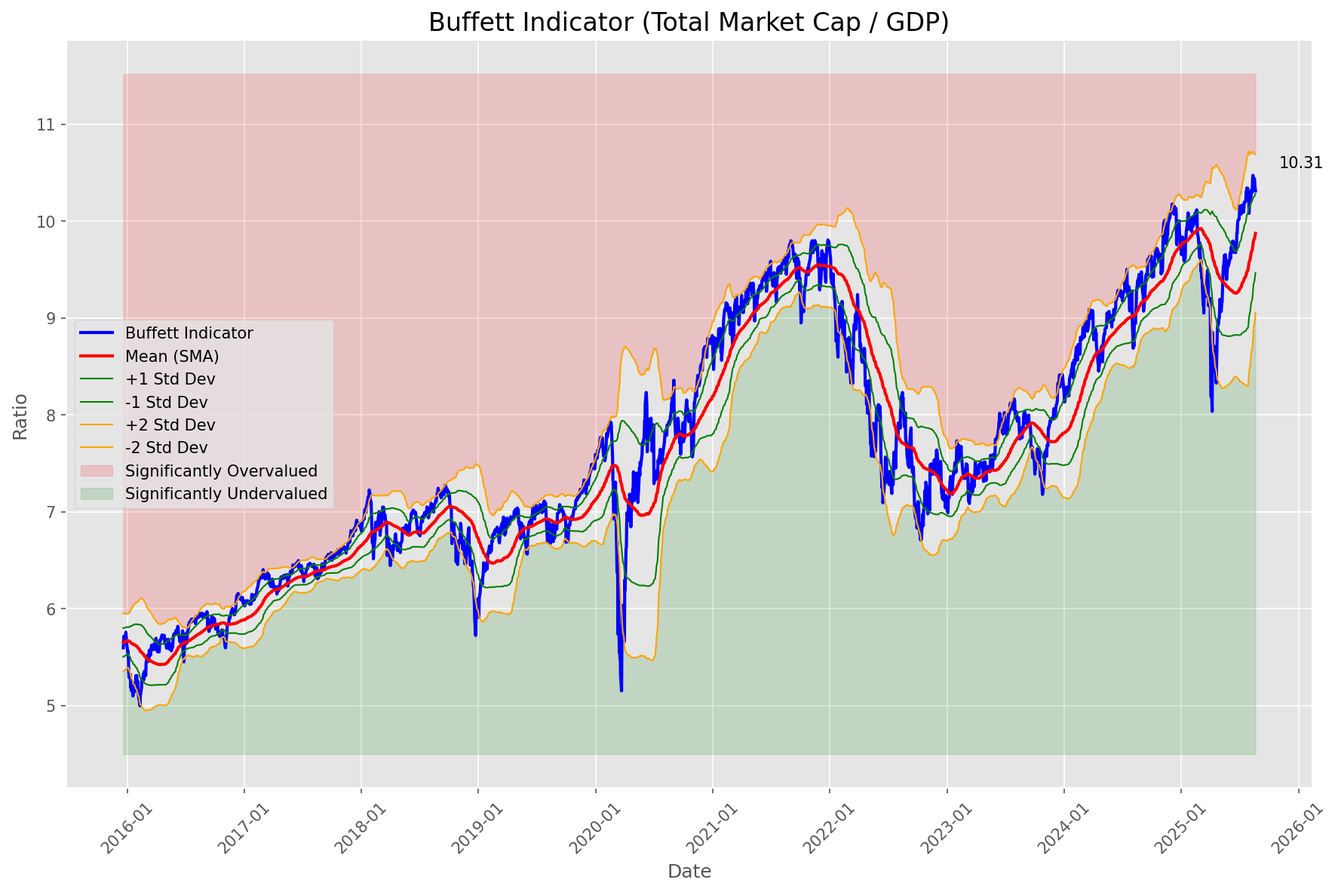
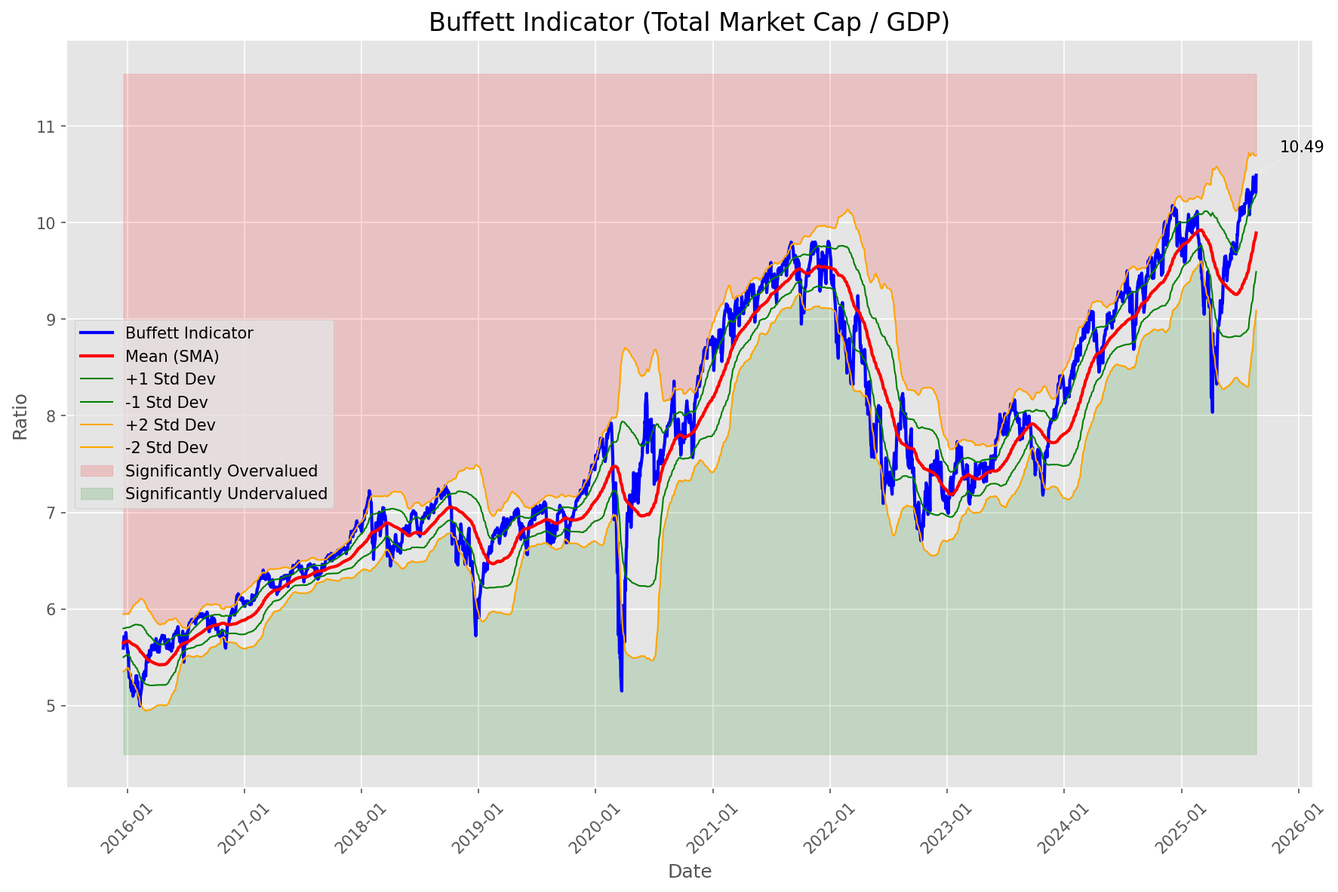
Add market report for 2025-08-25

diff --git a/oneil_relative_strength_report_2025-08-25.md b/oneil_relative_strength_report_2025-08-25.md
@@ -9,11 +9,11 @@
 | Metric | Value |
 |--------|-------|
 | **Market Valuation** | **Overvalued** |
-| **Current Ratio** | 10.49 |
-| **Historical Mean** | 9.87 |
-| **Standard Deviation** | 0.41 |
-| **Z-Score (StdDev from Mean)** | 1.07 |
-| **Total Market Cap** | $318.18 trillion |
+| **Current Ratio** | 10.47 |
+| **Historical Mean** | 9.89 |
+| **Standard Deviation** | 0.40 |
+| **Z-Score (StdDev from Mean)** | 1.49 |
+| **Total Market Cap** | $317.55 trillion |
 | **GDP** | $30.33 trillion |
 
 ## **Market Insights**
@@ -49,41 +49,41 @@ Based on William O'Neil's Relative Strength Methodology
 
 | ETF | Strength | RS Rating | Performance | Above Key MAs | Trend | Sector |
 |-----|----------|-----------|-------------|--------------|-------|--------|
-| [URA](https://www.tradingview.com/chart/?symbol=URA) | 97.0 | 94.0 | 38.29% | 10d ✓, 50d ✓, 200d ✓ | ↗ | Uranium |
-| [ARKK](https://www.tradingview.com/chart/?symbol=ARKK) | 96.5 | 93.0 | 35.72% | 10d ✓, 50d ✓, 200d ✓ | ↗ | Innovation |
-| [ARKF](https://www.tradingview.com/chart/?symbol=ARKF) | 95.5 | 91.0 | 32.87% | 10d ✓, 50d ✓, 200d ✓ | ↗ | Fintech Innovation |
+| [ARKK](https://www.tradingview.com/chart/?symbol=ARKK) | 96.5 | 93.0 | 36.13% | 10d ✓, 50d ✓, 200d ✓ | ↗ | Innovation |
+| [ARKF](https://www.tradingview.com/chart/?symbol=ARKF) | 95.5 | 91.0 | 33.37% | 10d ✓, 50d ✓, 200d ✓ | ↗ | Fintech Innovation |
 | [ARKW](https://www.tradingview.com/chart/?symbol=ARKW) | 95.0 | 90.0 | 31.90% | 10d ✓, 50d ✓, 200d ✓ | ↗ | Next Generation Internet |
-| [SOXX](https://www.tradingview.com/chart/?symbol=SOXX) | 90.0 | 80.0 | 21.06% | 10d ✓, 50d ✓, 200d ✓ | ↗ | Semiconductors |
-| [JETS](https://www.tradingview.com/chart/?symbol=JETS) | 88.0 | 76.0 | 18.64% | 10d ✓, 50d ✓, 200d ✓ | ↗ | Airlines |
-| [SLV](https://www.tradingview.com/chart/?symbol=SLV) | 87.5 | 75.0 | 17.68% | 10d ✓, 50d ✓, 200d ✓ | ↗ | Silver |
+| [URA](https://www.tradingview.com/chart/?symbol=URA) | 92.0 | 84.0 | 24.29% | 10d ✓, 50d ✓, 200d ✓ | ↗ | Uranium |
+| [SOXX](https://www.tradingview.com/chart/?symbol=SOXX) | 91.0 | 82.0 | 22.85% | 10d ✓, 50d ✓, 200d ✓ | ↗ | Semiconductors |
+| [JETS](https://www.tradingview.com/chart/?symbol=JETS) | 88.0 | 76.0 | 18.34% | 10d ✓, 50d ✓, 200d ✓ | ↗ | Airlines |
 | [BLOK](https://www.tradingview.com/chart/?symbol=BLOK) | 87.0 | 74.0 | 17.28% | 10d ✓, 50d ✓, 200d ✓ | ↗ | Blockchain & Cryptocurrency |
-| [PAVE](https://www.tradingview.com/chart/?symbol=PAVE) | 84.0 | 68.0 | 13.87% | 10d ✓, 50d ✓, 200d ✓ | ↗ | Infrastructure |
-| [KWEB](https://www.tradingview.com/chart/?symbol=KWEB) | 84.0 | 68.0 | 13.85% | 10d ✓, 50d ✓, 200d ✓ | ↗ | Chinese Internet |
-| [AIQ](https://www.tradingview.com/chart/?symbol=AIQ) | 81.0 | 62.0 | 11.51% | 10d ✓, 50d ✓, 200d ✓ | ↗ | Artificial Intelligence & Technology |
-| [XLC](https://www.tradingview.com/chart/?symbol=XLC) | 79.0 | 58.0 | 10.59% | 10d ✓, 50d ✓, 200d ✓ | ↗ | Communications |
-| [IYZ](https://www.tradingview.com/chart/?symbol=IYZ) | 78.5 | 57.0 | 10.16% | 10d ✓, 50d ✓, 200d ✓ | ↗ | Telecommunications |
-| [XLY](https://www.tradingview.com/chart/?symbol=XLY) | 78.0 | 56.0 | 9.66% | 10d ✓, 50d ✓, 200d ✓ | ↗ | Consumer Discretionary |
-| [XLI](https://www.tradingview.com/chart/?symbol=XLI) | 75.5 | 51.0 | 8.39% | 10d ✓, 50d ✓, 200d ✓ | ↗ | Industrial |
-| [XLK](https://www.tradingview.com/chart/?symbol=XLK) | 74.6 | 69.0 | 14.42% | 10d ✗, 50d ✓, 200d ✓ | ↗ | Technology |
-| [XLU](https://www.tradingview.com/chart/?symbol=XLU) | 74.0 | 48.0 | 7.42% | 10d ✓, 50d ✓, 200d ✓ | ↗ | Utilities |
-| [XLF](https://www.tradingview.com/chart/?symbol=XLF) | 73.0 | 46.0 | 6.65% | 10d ✓, 50d ✓, 200d ✓ | ↗ | Financial |
-| [ITB](https://www.tradingview.com/chart/?symbol=ITB) | 72.5 | 85.0 | 25.26% | 10d ✓, 50d ✓, 200d ✓ | ↘ | Home Construction |
-| [ARKG](https://www.tradingview.com/chart/?symbol=ARKG) | 70.0 | 80.0 | 21.23% | 10d ✓, 50d ✓, 200d ✓ | ↘ | Genomics |
-| [ICLN](https://www.tradingview.com/chart/?symbol=ICLN) | 67.5 | 75.0 | 17.74% | 10d ✓, 50d ✓, 200d ✓ | ↘ | Clean Energy |
-| [GLD](https://www.tradingview.com/chart/?symbol=GLD) | 66.0 | 32.0 | 2.46% | 10d ✓, 50d ✓, 200d ✓ | ↗ | Gold |
-| [IBB](https://www.tradingview.com/chart/?symbol=IBB) | 65.0 | 70.0 | 15.17% | 10d ✓, 50d ✓, 200d ✓ | ↘ | Biotechnology |
+| [SLV](https://www.tradingview.com/chart/?symbol=SLV) | 86.0 | 72.0 | 16.06% | 10d ✓, 50d ✓, 200d ✓ | ↗ | Silver |
+| [KWEB](https://www.tradingview.com/chart/?symbol=KWEB) | 85.0 | 70.0 | 14.99% | 10d ✓, 50d ✓, 200d ✓ | ↗ | Chinese Internet |
+| [PAVE](https://www.tradingview.com/chart/?symbol=PAVE) | 83.5 | 67.0 | 13.59% | 10d ✓, 50d ✓, 200d ✓ | ↗ | Infrastructure |
+| [AIQ](https://www.tradingview.com/chart/?symbol=AIQ) | 82.0 | 64.0 | 12.42% | 10d ✓, 50d ✓, 200d ✓ | ↗ | Artificial Intelligence & Technology |
+| [XLC](https://www.tradingview.com/chart/?symbol=XLC) | 80.5 | 61.0 | 11.36% | 10d ✓, 50d ✓, 200d ✓ | ↗ | Communications |
+| [IYZ](https://www.tradingview.com/chart/?symbol=IYZ) | 79.0 | 58.0 | 10.16% | 10d ✓, 50d ✓, 200d ✓ | ↗ | Telecommunications |
+| [XLY](https://www.tradingview.com/chart/?symbol=XLY) | 79.0 | 58.0 | 10.42% | 10d ✓, 50d ✓, 200d ✓ | ↗ | Consumer Discretionary |
+| [XLI](https://www.tradingview.com/chart/?symbol=XLI) | 76.0 | 52.0 | 8.45% | 10d ✓, 50d ✓, 200d ✓ | ↗ | Industrial |
+| [XLK](https://www.tradingview.com/chart/?symbol=XLK) | 75.6 | 71.0 | 15.76% | 10d ✗, 50d ✓, 200d ✓ | ↗ | Technology |
+| [XLF](https://www.tradingview.com/chart/?symbol=XLF) | 73.0 | 46.0 | 6.44% | 10d ✓, 50d ✓, 200d ✓ | ↗ | Financial |
+| [ITB](https://www.tradingview.com/chart/?symbol=ITB) | 72.0 | 84.0 | 24.39% | 10d ✓, 50d ✓, 200d ✓ | ↘ | Home Construction |
+| [ARKG](https://www.tradingview.com/chart/?symbol=ARKG) | 69.5 | 79.0 | 20.36% | 10d ✓, 50d ✓, 200d ✓ | ↘ | Genomics |
+| [ICLN](https://www.tradingview.com/chart/?symbol=ICLN) | 65.5 | 71.0 | 15.50% | 10d ✓, 50d ✓, 200d ✓ | ↘ | Clean Energy |
+| [IBB](https://www.tradingview.com/chart/?symbol=IBB) | 64.5 | 69.0 | 14.81% | 10d ✓, 50d ✓, 200d ✓ | ↘ | Biotechnology |
+| [GLD](https://www.tradingview.com/chart/?symbol=GLD) | 62.0 | 24.0 | 0.27% | 10d ✓, 50d ✓, 200d ✓ | ↗ | Gold |
+| [XLU](https://www.tradingview.com/chart/?symbol=XLU) | 61.1 | 42.0 | 5.27% | 10d ✗, 50d ✓, 200d ✓ | ↗ | Utilities |
 | [DBA](https://www.tradingview.com/chart/?symbol=DBA) | 61.0 | 22.0 | -0.22% | 10d ✓, 50d ✓, 200d ✓ | ↗ | Agriculture |
 | [IYT](https://www.tradingview.com/chart/?symbol=IYT) | 59.5 | 59.0 | 10.75% | 10d ✓, 50d ✓, 200d ✓ | ↘ | Transportation |
-| [XLE](https://www.tradingview.com/chart/?symbol=XLE) | 55.0 | 50.0 | 7.84% | 10d ✓, 50d ✓, 200d ✓ | ↘ | Energy |
-| [CIBR](https://www.tradingview.com/chart/?symbol=CIBR) | 54.1 | 28.0 | 1.48% | 10d ✓, 50d ✗, 200d ✓ | ↗ | Cybersecurity |
-| [XLB](https://www.tradingview.com/chart/?symbol=XLB) | 54.0 | 48.0 | 7.35% | 10d ✓, 50d ✓, 200d ✓ | ↘ | Materials |
-| [IYR](https://www.tradingview.com/chart/?symbol=IYR) | 52.0 | 44.0 | 6.06% | 10d ✓, 50d ✓, 200d ✓ | ↘ | Real Estate |
-| [XLP](https://www.tradingview.com/chart/?symbol=XLP) | 44.0 | 28.0 | 1.44% | 10d ✓, 50d ✓, 200d ✓ | ↘ | Consumer Staples |
-| [XLV](https://www.tradingview.com/chart/?symbol=XLV) | 41.3 | 43.0 | 5.84% | 10d ✓, 50d ✓, 200d ✗ | ↘ | Healthcare |
-| [BIL](https://www.tradingview.com/chart/?symbol=BIL) | 41.0 | 22.0 | 0.04% | 10d ✓, 50d ✓, 200d ✓ | ↘ | Short-term Treasuries |
-| [DBC](https://www.tradingview.com/chart/?symbol=DBC) | 38.6 | 37.0 | 3.71% | 10d ✓, 50d ✗, 200d ✓ | ↘ | Commodities |
-| [TLT](https://www.tradingview.com/chart/?symbol=TLT) | 37.3 | 35.0 | 3.13% | 10d ✓, 50d ✓, 200d ✗ | ↘ | Long-term Treasuries |
-| [UUP](https://www.tradingview.com/chart/?symbol=UUP) | 19.9 | 20.0 | -0.87% | 10d ✗, 50d ✓, 200d ✗ | ↘ | U.S. Dollar |
+| [CIBR](https://www.tradingview.com/chart/?symbol=CIBR) | 55.6 | 31.0 | 2.03% | 10d ✓, 50d ✗, 200d ✓ | ↗ | Cybersecurity |
+| [XLE](https://www.tradingview.com/chart/?symbol=XLE) | 54.5 | 49.0 | 7.39% | 10d ✓, 50d ✓, 200d ✓ | ↘ | Energy |
+| [XLB](https://www.tradingview.com/chart/?symbol=XLB) | 53.5 | 47.0 | 7.07% | 10d ✓, 50d ✓, 200d ✓ | ↘ | Materials |
+| [IYR](https://www.tradingview.com/chart/?symbol=IYR) | 51.5 | 43.0 | 5.48% | 10d ✓, 50d ✓, 200d ✓ | ↘ | Real Estate |
+| [BIL](https://www.tradingview.com/chart/?symbol=BIL) | 41.5 | 23.0 | 0.01% | 10d ✓, 50d ✓, 200d ✓ | ↘ | Short-term Treasuries |
+| [XLV](https://www.tradingview.com/chart/?symbol=XLV) | 40.8 | 42.0 | 5.14% | 10d ✓, 50d ✓, 200d ✗ | ↘ | Healthcare |
+| [DBC](https://www.tradingview.com/chart/?symbol=DBC) | 39.1 | 38.0 | 3.71% | 10d ✓, 50d ✗, 200d ✓ | ↘ | Commodities |
+| [XLP](https://www.tradingview.com/chart/?symbol=XLP) | 31.6 | 23.0 | 0.12% | 10d ✗, 50d ✓, 200d ✓ | ↘ | Consumer Staples |
+| [UUP](https://www.tradingview.com/chart/?symbol=UUP) | 21.4 | 23.0 | 0.04% | 10d ✗, 50d ✓, 200d ✗ | ↘ | U.S. Dollar |
+| [TLT](https://www.tradingview.com/chart/?symbol=TLT) | 16.5 | 33.0 | 2.50% | 10d ✗, 50d ✗, 200d ✗ | ↘ | Long-term Treasuries |
 
 ### **Sector ETF Performance Interpretation**
 
@@ -98,158 +98,186 @@ This table shows the relative strength metrics for different market sectors base
 
 ### **Current Sector Leadership**
 
-The current market leadership is coming from the following sectors: **Uranium, Innovation, Fintech Innovation**.
+The current market leadership is coming from the following sectors: **Innovation, Fintech Innovation, Next Generation Internet**.
 
-The **Uranium** sector (represented by **URA**) is showing particularly strong relative strength with an RS rating of 94.0 and performance of 38.29% vs. the S&P 500. This sector is trading above its 10-day, 50-day, 200-day moving average(s). Investors should consider focusing on high RS stocks within these leading sectors for potential outperformance.
+The **Innovation** sector (represented by **ARKK**) is showing particularly strong relative strength with an RS rating of 93.0 and performance of 36.13% vs. the S&P 500. This sector is trading above its 10-day, 50-day, 200-day moving average(s). Investors should consider focusing on high RS stocks within these leading sectors for potential outperformance.
 
 ---
 
 ## **Buy Recommendations**
 
-The following 48 stocks show exceptional relative strength:
+The following 49 stocks show exceptional relative strength:
 
 | RS Rating | Buy Score | Current Price | Chart | Name | Ticker |
 |-----------|-----------|---------------|-------|------|--------|
-| 99 | 100 | $61.52 | [Chart](https://www.tradingview.com/chart/?symbol=CELH) | Celsius Holdings, Inc. Common Stock | CELH |
-| 99 | 100 | $58.43 | [Chart](https://www.tradingview.com/chart/?symbol=TPC) | Tutor Perini Corporation | TPC |
-| 99 | 100 | $190.64 | [Chart](https://www.tradingview.com/chart/?symbol=FUTU) | Futu Holdings Limited American Depositary Shares | FUTU |
-| 99 | 100 | $26.84 | [Chart](https://www.tradingview.com/chart/?symbol=LQDA) | Liquidia Corporation Common Stock | LQDA |
-| 99 | 100 | $44.38 | [Chart](https://www.tradingview.com/chart/?symbol=RKLB) | Rocket Lab Corporation Common Stock | RKLB |
+| 100 | 100 | $116.47 | [Chart](https://www.tradingview.com/chart/?symbol=CRDO) | Credo Technology Group Holding Ltd Ordinary Shares | CRDO |
+| 100 | 100 | $68.27 | [Chart](https://www.tradingview.com/chart/?symbol=KTOS) | Kratos Defense & Security Solutions, Inc. | KTOS |
+| 100 | 100 | $47.55 | [Chart](https://www.tradingview.com/chart/?symbol=RKLB) | Rocket Lab Corporation Common Stock | RKLB |
+| 99 | 100 | $59.97 | [Chart](https://www.tradingview.com/chart/?symbol=TPC) | Tutor Perini Corporation | TPC |
+| 99 | 100 | $26.41 | [Chart](https://www.tradingview.com/chart/?symbol=LQDA) | Liquidia Corporation Common Stock | LQDA |
+| 99 | 100 | $196.26 | [Chart](https://www.tradingview.com/chart/?symbol=FUTU) | Futu Holdings Limited American Depositary Shares | FUTU |
 | 98 | 100 | $198.98 | [Chart](https://www.tradingview.com/chart/?symbol=COOP) | Mr. Cooper Group Inc. Common Stock | COOP |
-| 97 | 100 | $44.43 | [Chart](https://www.tradingview.com/chart/?symbol=TTMI) | TTM Technologies Inc | TTMI |
+| 98 | 100 | $44.89 | [Chart](https://www.tradingview.com/chart/?symbol=TTMI) | TTM Technologies Inc | TTMI |
 | 97 | 100 | $90.22 | [Chart](https://www.tradingview.com/chart/?symbol=LIF) | Life360, Inc. Common Stock | LIF |
-| 96 | 100 | $105.56 | [Chart](https://www.tradingview.com/chart/?symbol=VRNA) | Verona Pharma plc | VRNA |
-| 96 | 100 | $344.67 | [Chart](https://www.tradingview.com/chart/?symbol=RCL) | Royal Caribbean Group | RCL |
+| 97 | 100 | $125.81 | [Chart](https://www.tradingview.com/chart/?symbol=RBLX) | Roblox Corporation | RBLX |
+| 96 | 100 | $346.32 | [Chart](https://www.tradingview.com/chart/?symbol=RCL) | Royal Caribbean Group | RCL |
 | 96 | 100 | $34.18 | [Chart](https://www.tradingview.com/chart/?symbol=CPS) | Cooper-Standard Automotive Inc. | CPS |
 | 95 | 100 | $66.83 | [Chart](https://www.tradingview.com/chart/?symbol=MRCY) | Mercury Systems Inc. | MRCY |
-| 95 | 100 | $31.12 | [Chart](https://www.tradingview.com/chart/?symbol=GFI) | Gold Fields Ltd ADR | GFI |
-| 94 | 100 | $60.39 | [Chart](https://www.tradingview.com/chart/?symbol=VIK) | Viking Holdings Ltd | VIK |
 | 94 | 100 | $56.59 | [Chart](https://www.tradingview.com/chart/?symbol=BBW) | Build-A-Bear Workshop, Inc. | BBW |
+| 94 | 100 | $32.11 | [Chart](https://www.tradingview.com/chart/?symbol=GFI) | Gold Fields Ltd ADR | GFI |
+| 94 | 100 | $60.44 | [Chart](https://www.tradingview.com/chart/?symbol=VIK) | Viking Holdings Ltd | VIK |
+| 93 | 100 | $37.41 | [Chart](https://www.tradingview.com/chart/?symbol=DB) | Deutsche Bank Aktiengesellschaft | DB |
 | 93 | 100 | $98.91 | [Chart](https://www.tradingview.com/chart/?symbol=TPB) | Turning Point Brands, Inc. | TPB |
-| 93 | 100 | $32.64 | [Chart](https://www.tradingview.com/chart/?symbol=PAAS) | Pan American Silver Corp. | PAAS |
-| 93 | 100 | $99.22 | [Chart](https://www.tradingview.com/chart/?symbol=EBAY) | eBay Inc | EBAY |
-| 92 | 100 | $30.53 | [Chart](https://www.tradingview.com/chart/?symbol=ACMR) | ACM Research, Inc. Class A Common Stock | ACMR |
+| 92 | 100 | $32.68 | [Chart](https://www.tradingview.com/chart/?symbol=PAAS) | Pan American Silver Corp. | PAAS |
+| 92 | 100 | $30.27 | [Chart](https://www.tradingview.com/chart/?symbol=ACMR) | ACM Research, Inc. Class A Common Stock | ACMR |
+| 92 | 100 | $32.08 | [Chart](https://www.tradingview.com/chart/?symbol=SRAD) | Sportradar Group AG Class A Ordinary Shares | SRAD |
+| 91 | 100 | $23.05 | [Chart](https://www.tradingview.com/chart/?symbol=BZ) | KANZHUN LIMITED American Depository Shares | BZ |
 | 91 | 100 | $75.38 | [Chart](https://www.tradingview.com/chart/?symbol=WNS) | WNS (Holdings) Limited | WNS |
-| 91 | 100 | $22.84 | [Chart](https://www.tradingview.com/chart/?symbol=BZ) | KANZHUN LIMITED American Depository Shares | BZ |
-| 91 | 100 | $54.41 | [Chart](https://www.tradingview.com/chart/?symbol=ARKF) | ARK Fintech Innovation ETF | ARKF |
-| 91 | 100 | $31.63 | [Chart](https://www.tradingview.com/chart/?symbol=SRAD) | Sportradar Group AG Class A Ordinary Shares | SRAD |
-| 91 | 100 | $24.83 | [Chart](https://www.tradingview.com/chart/?symbol=EYE) | National Vision Holdings, Inc. Common Stock | EYE |
-| 90 | 100 | $58.51 | [Chart](https://www.tradingview.com/chart/?symbol=BTI) | British American Tobacco p.l.c. American Depositary Shares, American Depositary Shares, each representing one Ordinary Share | BTI |
+| 91 | 100 | $54.12 | [Chart](https://www.tradingview.com/chart/?symbol=ARKF) | ARK Fintech Innovation ETF | ARKF |
 | 90 | 100 | $158.31 | [Chart](https://www.tradingview.com/chart/?symbol=ARKW) | ARK Next Generation Internet ETF | ARKW |
-| 90 | 100 | $55.33 | [Chart](https://www.tradingview.com/chart/?symbol=SIL) | Global X Silver Miners ETF (NEW) | SIL |
-| 89 | 100 | $37.15 | [Chart](https://www.tradingview.com/chart/?symbol=DB) | Deutsche Bank Aktiengesellschaft | DB |
-| 89 | 100 | $48.04 | [Chart](https://www.tradingview.com/chart/?symbol=LTM) | LATAM Airlines Group S.A. American Depositary Shares (each representing two thousand (2,000) shares of Common Stock) | LTM |
+| 89 | 100 | $95.13 | [Chart](https://www.tradingview.com/chart/?symbol=C) | Citigroup Inc. | C |
 | 88 | 100 | $167.00 | [Chart](https://www.tradingview.com/chart/?symbol=VSEC) | VSE Corp | VSEC |
-| 88 | 98 | $95.26 | [Chart](https://www.tradingview.com/chart/?symbol=C) | Citigroup Inc. | C |
-| 87 | 98 | $23.69 | [Chart](https://www.tradingview.com/chart/?symbol=MAG) | MAG Silver Corp. | MAG |
-| 88 | 97 | $17.54 | [Chart](https://www.tradingview.com/chart/?symbol=ARLO) | Arlo Technologies, Inc. | ARLO |
-| 84 | 97 | $51.19 | [Chart](https://www.tradingview.com/chart/?symbol=RING) | iShares MSCI Global Gold Miners ETF | RING |
-| 84 | 97 | $42.47 | [Chart](https://www.tradingview.com/chart/?symbol=AHR) | American Healthcare REIT, Inc. | AHR |
+| 88 | 100 | $58.31 | [Chart](https://www.tradingview.com/chart/?symbol=BTI) | British American Tobacco p.l.c. American Depositary Shares, American Depositary Shares, each representing one Ordinary Share | BTI |
+| 87 | 100 | $48.17 | [Chart](https://www.tradingview.com/chart/?symbol=LTM) | LATAM Airlines Group S.A. American Depositary Shares (each representing two thousand (2,000) shares of Common Stock) | LTM |
+| 90 | 99 | $17.45 | [Chart](https://www.tradingview.com/chart/?symbol=ARLO) | Arlo Technologies, Inc. | ARLO |
+| 88 | 98 | $55.38 | [Chart](https://www.tradingview.com/chart/?symbol=SIL) | Global X Silver Miners ETF (NEW) | SIL |
+| 87 | 98 | $24.11 | [Chart](https://www.tradingview.com/chart/?symbol=EYE) | National Vision Holdings, Inc. Common Stock | EYE |
+| 85 | 98 | $51.19 | [Chart](https://www.tradingview.com/chart/?symbol=RING) | iShares MSCI Global Gold Miners ETF | RING |
+| 86 | 97 | $23.71 | [Chart](https://www.tradingview.com/chart/?symbol=MAG) | MAG Silver Corp. | MAG |
+| 84 | 97 | $42.59 | [Chart](https://www.tradingview.com/chart/?symbol=AHR) | American Healthcare REIT, Inc. | AHR |
 | 86 | 96 | $197.24 | [Chart](https://www.tradingview.com/chart/?symbol=AWI) | Armstrong World Industries, Inc. | AWI |
 | 86 | 96 | $31.63 | [Chart](https://www.tradingview.com/chart/?symbol=IIIV) | i3 Verticals, Inc. Class A Common Stock | IIIV |
-| 84 | 96 | $30.87 | [Chart](https://www.tradingview.com/chart/?symbol=OR) | OR Royalties Inc. | OR |
 | 84 | 96 | $95.06 | [Chart](https://www.tradingview.com/chart/?symbol=LLYVK) | Liberty Media Corporation Series C Liberty Live Common Stock | LLYVK |
+| 84 | 96 | $30.87 | [Chart](https://www.tradingview.com/chart/?symbol=OR) | OR Royalties Inc. | OR |
 | 85 | 95 | $123.98 | [Chart](https://www.tradingview.com/chart/?symbol=PPLT) | abrdn Physical Platinum Shares ETF | PPLT |
 | 85 | 95 | $53.53 | [Chart](https://www.tradingview.com/chart/?symbol=FHI) | Federated Hermes, Inc. | FHI |
-| 84 | 95 | $255.01 | [Chart](https://www.tradingview.com/chart/?symbol=BAP) | Credicorp LTD | BAP |
+| 85 | 95 | $445.18 | [Chart](https://www.tradingview.com/chart/?symbol=APP) | Applovin Corporation Class A Common Stock | APP |
 | 84 | 95 | $26.34 | [Chart](https://www.tradingview.com/chart/?symbol=TFPM) | Triple Flag Precious Metals Corp. | TFPM |
+| 84 | 95 | $255.01 | [Chart](https://www.tradingview.com/chart/?symbol=BAP) | Credicorp LTD | BAP |
 | 84 | 94 | $58.46 | [Chart](https://www.tradingview.com/chart/?symbol=CALX) | CALIX, INC. | CALX |
-| 83 | 93 | $50.39 | [Chart](https://www.tradingview.com/chart/?symbol=FAST) | Fastenal Co | FAST |
+| 83 | 93 | $50.30 | [Chart](https://www.tradingview.com/chart/?symbol=FAST) | Fastenal Co | FAST |
 | 81 | 93 | $36.34 | [Chart](https://www.tradingview.com/chart/?symbol=ATRO) | Astronics Corp | ATRO |
-| 82 | 92 | $19.82 | [Chart](https://www.tradingview.com/chart/?symbol=DAN) | Dana Incorporated | DAN |
 | 81 | 91 | $16.00 | [Chart](https://www.tradingview.com/chart/?symbol=EZPW) | Ezcorp Inc | EZPW |
+| 80 | 90 | $19.90 | [Chart](https://www.tradingview.com/chart/?symbol=DAN) | Dana Incorporated | DAN |
 
 ---
 
 
 ## **Sell Recommendations**
 
-The following 82 stocks show deteriorating relative strength:
+The following 109 stocks show deteriorating relative strength:
 
 | RS Rating | Sell Score | Current Price | Chart | Name | Ticker |
 |-----------|------------|---------------|-------|------|--------|
-| 1 | 100 | $24.15 | [Chart](https://www.tradingview.com/chart/?symbol=TECS) | Direxion Daily Technology Bear 3x Shares | TECS |
-| 2 | 100 | $15.19 | [Chart](https://www.tradingview.com/chart/?symbol=SPT) | Sprout Social, Inc Class A Common Stock | SPT |
-| 2 | 100 | $15.60 | [Chart](https://www.tradingview.com/chart/?symbol=KRNT) | Kornit Digital Ltd. | KRNT |
+| 1 | 100 | $24.16 | [Chart](https://www.tradingview.com/chart/?symbol=TECS) | Direxion Daily Technology Bear 3x Shares | TECS |
 | 2 | 100 | $36.40 | [Chart](https://www.tradingview.com/chart/?symbol=TWM) | ProShares UltraShort Russell2000 | TWM |
-| 2 | 100 | $12.15 | [Chart](https://www.tradingview.com/chart/?symbol=ACVA) | ACV Auctions Inc. | ACVA |
-| 2 | 100 | $17.87 | [Chart](https://www.tradingview.com/chart/?symbol=DJT) | Trump Media & Technology Group Corp. Common Stock | DJT |
+| 2 | 100 | $11.94 | [Chart](https://www.tradingview.com/chart/?symbol=ACVA) | ACV Auctions Inc. | ACVA |
+| 2 | 100 | $15.19 | [Chart](https://www.tradingview.com/chart/?symbol=SPT) | Sprout Social, Inc Class A Common Stock | SPT |
+| 2 | 100 | $17.38 | [Chart](https://www.tradingview.com/chart/?symbol=DJT) | Trump Media & Technology Group Corp. Common Stock | DJT |
 | 2 | 100 | $22.07 | [Chart](https://www.tradingview.com/chart/?symbol=ZSL) | ProShares UltraShort Silver | ZSL |
+| 2 | 100 | $15.60 | [Chart](https://www.tradingview.com/chart/?symbol=KRNT) | Kornit Digital Ltd. | KRNT |
+| 3 | 100 | $35.10 | [Chart](https://www.tradingview.com/chart/?symbol=IOT) | Samsara Inc. | IOT |
+| 3 | 100 | $38.20 | [Chart](https://www.tradingview.com/chart/?symbol=SDOW) | ProShares UltraPro Short Dow 30 | SDOW |
 | 3 | 100 | $22.22 | [Chart](https://www.tradingview.com/chart/?symbol=CLW) | Clearwater Paper Corporation | CLW |
-| 3 | 100 | $37.70 | [Chart](https://www.tradingview.com/chart/?symbol=SDOW) | ProShares UltraPro Short Dow 30 | SDOW |
 | 3 | 100 | $26.89 | [Chart](https://www.tradingview.com/chart/?symbol=BRZE) | Braze, Inc. Class A Common Stock | BRZE |
-| 3 | 100 | $34.79 | [Chart](https://www.tradingview.com/chart/?symbol=IOT) | Samsara Inc. | IOT |
-| 5 | 100 | $47.47 | [Chart](https://www.tradingview.com/chart/?symbol=EXAS) | Exact Sciences Corp | EXAS |
-| 7 | 100 | $362.09 | [Chart](https://www.tradingview.com/chart/?symbol=ADBE) | Adobe Inc. | ADBE |
-| 7 | 100 | $25.85 | [Chart](https://www.tradingview.com/chart/?symbol=TBBB) | BBB Foods Inc. | TBBB |
+| 4 | 100 | $46.61 | [Chart](https://www.tradingview.com/chart/?symbol=EXAS) | Exact Sciences Corp | EXAS |
+| 5 | 100 | $16.64 | [Chart](https://www.tradingview.com/chart/?symbol=S) | SentinelOne, Inc. | S |
+| 5 | 100 | $68.22 | [Chart](https://www.tradingview.com/chart/?symbol=EMN) | Eastman Chemical Company | EMN |
+| 5 | 100 | $16.66 | [Chart](https://www.tradingview.com/chart/?symbol=SCO) | ProShares UltraShort Bloomberg Crude Oil | SCO |
+| 5 | 100 | $26.40 | [Chart](https://www.tradingview.com/chart/?symbol=CRI) | Carter's Inc. | CRI |
 | 8 | 100 | $11.80 | [Chart](https://www.tradingview.com/chart/?symbol=CHPT) | ChargePoint Holdings, Inc. | CHPT |
+| 8 | 100 | $11.04 | [Chart](https://www.tradingview.com/chart/?symbol=PATH) | UiPath, Inc. | PATH |
+| 8 | 100 | $363.69 | [Chart](https://www.tradingview.com/chart/?symbol=ADBE) | Adobe Inc. | ADBE |
+| 9 | 100 | $38.47 | [Chart](https://www.tradingview.com/chart/?symbol=SH) | ProShares Short S&P500 | SH |
 | 10 | 100 | $60.03 | [Chart](https://www.tradingview.com/chart/?symbol=ATKR) | Atkore Inc. | ATKR |
-| 10 | 100 | $38.40 | [Chart](https://www.tradingview.com/chart/?symbol=SH) | ProShares Short S&P500 | SH |
+| 10 | 100 | $41.33 | [Chart](https://www.tradingview.com/chart/?symbol=LINE) | Lineage, Inc. Common Stock | LINE |
 | 10 | 100 | $12.35 | [Chart](https://www.tradingview.com/chart/?symbol=BSM) | Black Stone Minerals, L.P. | BSM |
 | 13 | 100 | $15.12 | [Chart](https://www.tradingview.com/chart/?symbol=CHCT) | Community Healthcare Trust Incorporated Common Stock, $0.01 par value per share | CHCT |
 | 15 | 100 | $16.95 | [Chart](https://www.tradingview.com/chart/?symbol=CTO) | CTO Realty Growth, Inc. | CTO |
+| 9 | 99 | $21.38 | [Chart](https://www.tradingview.com/chart/?symbol=KVUE) | Kenvue Inc. | KVUE |
 | 9 | 99 | $21.21 | [Chart](https://www.tradingview.com/chart/?symbol=ERY) | Direxion Daily Energy Bear 2X Shares | ERY |
-| 13 | 99 | $10.02 | [Chart](https://www.tradingview.com/chart/?symbol=NMZ) | Nuveen Municipal High Income Opportunity Fund | NMZ |
+| 9 | 99 | $94.75 | [Chart](https://www.tradingview.com/chart/?symbol=CNI) | Canadian National Railway | CNI |
+| 11 | 98 | $10.00 | [Chart](https://www.tradingview.com/chart/?symbol=SPDN) | Direxion Daily S&P 500 Bear 1X Shares | SPDN |
+| 14 | 98 | $10.02 | [Chart](https://www.tradingview.com/chart/?symbol=NMZ) | Nuveen Municipal High Income Opportunity Fund | NMZ |
 | 15 | 98 | $109.44 | [Chart](https://www.tradingview.com/chart/?symbol=CPT) | Camden Property Trust | CPT |
-| 18 | 97 | $39.20 | [Chart](https://www.tradingview.com/chart/?symbol=UDR) | UDR, Inc. | UDR |
+| 19 | 98 | $38.76 | [Chart](https://www.tradingview.com/chart/?symbol=UDR) | UDR, Inc. | UDR |
+| 3 | 97 | $46.25 | [Chart](https://www.tradingview.com/chart/?symbol=ONON) | On Holding AG | ONON |
+| 11 | 97 | $33.79 | [Chart](https://www.tradingview.com/chart/?symbol=TECK) | Teck Resources Limited | TECK |
+| 11 | 97 | $74.94 | [Chart](https://www.tradingview.com/chart/?symbol=OKE) | Oneok, Inc. | OKE |
+| 17 | 97 | $18.45 | [Chart](https://www.tradingview.com/chart/?symbol=LOVE) | The Lovesac Company Common Stock | LOVE |
 | 18 | 97 | $20.11 | [Chart](https://www.tradingview.com/chart/?symbol=AVBP) | ArriVent BioPharma, Inc. Common Stock | AVBP |
+| 4 | 96 | $145.69 | [Chart](https://www.tradingview.com/chart/?symbol=GDDY) | GoDaddy Inc | GDDY |
+| 8 | 96 | $32.79 | [Chart](https://www.tradingview.com/chart/?symbol=PSQ) | ProShares Short QQQ | PSQ |
 | 10 | 96 | $786.47 | [Chart](https://www.tradingview.com/chart/?symbol=EQIX) | Equinix, Inc. Common Stock REIT | EQIX |
 | 14 | 96 | $32.29 | [Chart](https://www.tradingview.com/chart/?symbol=PCVX) | Vaxcyte, Inc. Common Stock | PCVX |
 | 15 | 96 | $34.91 | [Chart](https://www.tradingview.com/chart/?symbol=RGR) | Sturm, Ruger & Company, Inc. | RGR |
-| 12 | 95 | $10.12 | [Chart](https://www.tradingview.com/chart/?symbol=SPDN) | Direxion Daily S&P 500 Bear 1X Shares | SPDN |
-| 6 | 94 | $80.06 | [Chart](https://www.tradingview.com/chart/?symbol=ESTC) | Elastic N.V. | ESTC |
+| 7 | 95 | $79.85 | [Chart](https://www.tradingview.com/chart/?symbol=ESTC) | Elastic N.V. | ESTC |
+| 9 | 95 | $70.68 | [Chart](https://www.tradingview.com/chart/?symbol=FIS) | Fidelity National Information Services, Inc. | FIS |
+| 10 | 95 | $208.52 | [Chart](https://www.tradingview.com/chart/?symbol=MMC) | Marsh & McLennan Companies, Inc. | MMC |
+| 11 | 95 | $24.92 | [Chart](https://www.tradingview.com/chart/?symbol=DOG) | ProShares Short Dow30 | DOG |
+| 6 | 94 | $18.10 | [Chart](https://www.tradingview.com/chart/?symbol=FSK) | FS KKR Capital Corp. Common Stock | FSK |
 | 8 | 94 | $26.68 | [Chart](https://www.tradingview.com/chart/?symbol=THR) | THERMON GROUP HOLDINGS, INC. | THR |
-| 9 | 94 | $11.17 | [Chart](https://www.tradingview.com/chart/?symbol=PATH) | UiPath, Inc. | PATH |
-| 11 | 94 | $74.84 | [Chart](https://www.tradingview.com/chart/?symbol=OKE) | Oneok, Inc. | OKE |
+| 10 | 94 | $25.30 | [Chart](https://www.tradingview.com/chart/?symbol=GDEN) | Golden Entertainment, Inc. Common Stock | GDEN |
+| 11 | 94 | $85.18 | [Chart](https://www.tradingview.com/chart/?symbol=CL) | Colgate-Palmolive Company | CL |
 | 17 | 94 | $10.95 | [Chart](https://www.tradingview.com/chart/?symbol=MQY) | Blackrock Muni Yield Quality Fund, Inc | MQY |
-| 11 | 93 | $24.82 | [Chart](https://www.tradingview.com/chart/?symbol=DOG) | ProShares Short Dow30 | DOG |
-| 11 | 93 | $25.30 | [Chart](https://www.tradingview.com/chart/?symbol=GDEN) | Golden Entertainment, Inc. Common Stock | GDEN |
-| 12 | 93 | $110.58 | [Chart](https://www.tradingview.com/chart/?symbol=ITGR) | Integer Holdings Corporation | ITGR |
-| 18 | 93 | $13.75 | [Chart](https://www.tradingview.com/chart/?symbol=OCSL) | Oaktree Specialty Lending Corporation | OCSL |
+| 12 | 93 | $30.84 | [Chart](https://www.tradingview.com/chart/?symbol=INVH) | Invitation Homes Inc. Common Stock | INVH |
+| 13 | 92 | $110.58 | [Chart](https://www.tradingview.com/chart/?symbol=ITGR) | Integer Holdings Corporation | ITGR |
+| 16 | 92 | $68.84 | [Chart](https://www.tradingview.com/chart/?symbol=HSIC) | Henry Schein Inc | HSIC |
 | 16 | 92 | $26.05 | [Chart](https://www.tradingview.com/chart/?symbol=FCPT) | Four Corners Property Trust, Inc. | FCPT |
-| 16 | 92 | $193.62 | [Chart](https://www.tradingview.com/chart/?symbol=AVB) | AvalonBay Communities, Inc. | AVB |
+| 19 | 92 | $13.75 | [Chart](https://www.tradingview.com/chart/?symbol=OCSL) | Oaktree Specialty Lending Corporation | OCSL |
+| 22 | 92 | $26.20 | [Chart](https://www.tradingview.com/chart/?symbol=MRNA) | Moderna, Inc. Common Stock | MRNA |
 | 14 | 91 | $38.27 | [Chart](https://www.tradingview.com/chart/?symbol=APGE) | Apogee Therapeutics, Inc. Common Stock | APGE |
-| 16 | 91 | $75.66 | [Chart](https://www.tradingview.com/chart/?symbol=AWR) | American States Water Company | AWR |
+| 17 | 91 | $193.62 | [Chart](https://www.tradingview.com/chart/?symbol=AVB) | AvalonBay Communities, Inc. | AVB |
 | 19 | 91 | $11.63 | [Chart](https://www.tradingview.com/chart/?symbol=NVG) | Nuveen AMT-Free Municipal Credit Income Fund | NVG |
-| 27 | 91 | $47.63 | [Chart](https://www.tradingview.com/chart/?symbol=EDU) | New Oriental Education and Technology Group, Inc. American Depositary Shares (each representing ten (10) Common Shares) | EDU |
-| 11 | 90 | $210.55 | [Chart](https://www.tradingview.com/chart/?symbol=MMC) | Marsh & McLennan Companies, Inc. | MMC |
+| 11 | 90 | $49.23 | [Chart](https://www.tradingview.com/chart/?symbol=DT) | Dynatrace, Inc. | DT |
 | 11 | 90 | $66.56 | [Chart](https://www.tradingview.com/chart/?symbol=CBZ) | CBIZ, Inc. | CBZ |
 | 12 | 90 | $15.75 | [Chart](https://www.tradingview.com/chart/?symbol=MCS) | The Marcus Corporation | MCS |
-| 18 | 90 | $93.86 | [Chart](https://www.tradingview.com/chart/?symbol=IRM) | Iron Mountain Inc. | IRM |
+| 17 | 90 | $75.66 | [Chart](https://www.tradingview.com/chart/?symbol=AWR) | American States Water Company | AWR |
 | 11 | 89 | $28.87 | [Chart](https://www.tradingview.com/chart/?symbol=CNX) | CNX Resources Corporation | CNX |
-| 11 | 89 | $10.50 | [Chart](https://www.tradingview.com/chart/?symbol=DVAX) | Dynavax Technologies Corporation | DVAX |
-| 13 | 89 | $31.26 | [Chart](https://www.tradingview.com/chart/?symbol=INVH) | Invitation Homes Inc. Common Stock | INVH |
-| 18 | 89 | $69.60 | [Chart](https://www.tradingview.com/chart/?symbol=HSIC) | Henry Schein Inc | HSIC |
-| 19 | 89 | $26.77 | [Chart](https://www.tradingview.com/chart/?symbol=WKC) | World Kinect Corporation | WKC |
+| 18 | 89 | $45.18 | [Chart](https://www.tradingview.com/chart/?symbol=EPI) | WisdomTree India Earnings Fund ETF | EPI |
+| 19 | 89 | $93.86 | [Chart](https://www.tradingview.com/chart/?symbol=IRM) | Iron Mountain Inc. | IRM |
 | 19 | 88 | $20.20 | [Chart](https://www.tradingview.com/chart/?symbol=KIDS) | OrthoPediatrics Corp. Common Stock | KIDS |
-| 21 | 88 | $22.38 | [Chart](https://www.tradingview.com/chart/?symbol=DIN) | Dine Brands Global, Inc. | DIN |
-| 18 | 87 | $69.90 | [Chart](https://www.tradingview.com/chart/?symbol=PYPL) | PayPal Holdings, Inc. Common Stock | PYPL |
+| 20 | 88 | $26.77 | [Chart](https://www.tradingview.com/chart/?symbol=WKC) | World Kinect Corporation | WKC |
+| 28 | 88 | $22.62 | [Chart](https://www.tradingview.com/chart/?symbol=CURB) | Curbline Properties Corp. | CURB |
+| 14 | 87 | $62.67 | [Chart](https://www.tradingview.com/chart/?symbol=MDLZ) | Mondelez International, Inc. Class A | MDLZ |
 | 19 | 87 | $82.51 | [Chart](https://www.tradingview.com/chart/?symbol=AGO) | Assured Guaranty, LTD | AGO |
+| 20 | 87 | $69.18 | [Chart](https://www.tradingview.com/chart/?symbol=PYPL) | PayPal Holdings, Inc. Common Stock | PYPL |
 | 21 | 87 | $144.87 | [Chart](https://www.tradingview.com/chart/?symbol=OLED) | Universal Display Corp | OLED |
-| 20 | 86 | $80.63 | [Chart](https://www.tradingview.com/chart/?symbol=IR) | Ingersoll Rand Inc. Common Stock | IR |
-| 24 | 86 | $23.34 | [Chart](https://www.tradingview.com/chart/?symbol=BSJQ) | Invesco BulletShares 2026 High Yield Corporate Bond ETF | BSJQ |
-| 19 | 85 | $30.04 | [Chart](https://www.tradingview.com/chart/?symbol=AMAL) | Amalgamated Financial Corp. Common Stock (DE) | AMAL |
+| 22 | 87 | $22.38 | [Chart](https://www.tradingview.com/chart/?symbol=DIN) | Dine Brands Global, Inc. | DIN |
+| 23 | 87 | $80.46 | [Chart](https://www.tradingview.com/chart/?symbol=IR) | Ingersoll Rand Inc. Common Stock | IR |
+| 16 | 86 | $18.23 | [Chart](https://www.tradingview.com/chart/?symbol=MAT) | Mattel, Inc. | MAT |
+| 23 | 86 | $31.06 | [Chart](https://www.tradingview.com/chart/?symbol=CNQ) | Canadian Natural Resources Limited | CNQ |
 | 21 | 85 | $41.09 | [Chart](https://www.tradingview.com/chart/?symbol=CUBE) | CubeSmart | CUBE |
-| 28 | 85 | $27.12 | [Chart](https://www.tradingview.com/chart/?symbol=MRNA) | Moderna, Inc. Common Stock | MRNA |
-| 20 | 84 | $14.78 | [Chart](https://www.tradingview.com/chart/?symbol=GBDC) | Golub Capital BDC, Inc. | GBDC |
-| 24 | 84 | $20.88 | [Chart](https://www.tradingview.com/chart/?symbol=BKLN) | Invesco Senior Loan ETF | BKLN |
+| 25 | 85 | $23.34 | [Chart](https://www.tradingview.com/chart/?symbol=BSJQ) | Invesco BulletShares 2026 High Yield Corporate Bond ETF | BSJQ |
+| 17 | 84 | $10.32 | [Chart](https://www.tradingview.com/chart/?symbol=DVAX) | Dynavax Technologies Corporation | DVAX |
+| 20 | 84 | $30.04 | [Chart](https://www.tradingview.com/chart/?symbol=AMAL) | Amalgamated Financial Corp. Common Stock (DE) | AMAL |
+| 21 | 84 | $167.06 | [Chart](https://www.tradingview.com/chart/?symbol=DLR) | Digital Realty Trust, Inc. | DLR |
+| 25 | 84 | $20.88 | [Chart](https://www.tradingview.com/chart/?symbol=BKLN) | Invesco Senior Loan ETF | BKLN |
+| 17 | 83 | $27.38 | [Chart](https://www.tradingview.com/chart/?symbol=SARO) | StandardAero, Inc. | SARO |
 | 18 | 83 | $222.87 | [Chart](https://www.tradingview.com/chart/?symbol=SBAC) | SBA Communications Corp | SBAC |
-| 20 | 83 | $45.39 | [Chart](https://www.tradingview.com/chart/?symbol=EPI) | WisdomTree India Earnings Fund ETF | EPI |
+| 21 | 83 | $210.82 | [Chart](https://www.tradingview.com/chart/?symbol=AMT) | American Tower Corporation | AMT |
+| 21 | 83 | $14.78 | [Chart](https://www.tradingview.com/chart/?symbol=GBDC) | Golub Capital BDC, Inc. | GBDC |
 | 22 | 83 | $23.05 | [Chart](https://www.tradingview.com/chart/?symbol=BSJP) | Invesco BulletShares 2025 High Yield Corporate Bond ETF | BSJP |
-| 26 | 82 | $31.14 | [Chart](https://www.tradingview.com/chart/?symbol=CNQ) | Canadian Natural Resources Limited | CNQ |
-| 21 | 80 | $167.06 | [Chart](https://www.tradingview.com/chart/?symbol=DLR) | Digital Realty Trust, Inc. | DLR |
-| 24 | 80 | $45.88 | [Chart](https://www.tradingview.com/chart/?symbol=FTSL) | First Trust Senior Loan Fund ETF | FTSL |
-| 31 | 77 | $42.34 | [Chart](https://www.tradingview.com/chart/?symbol=WHD) | Cactus, Inc. | WHD |
-| 30 | 75 | $11.04 | [Chart](https://www.tradingview.com/chart/?symbol=FPI) | Farmland Partners Inc. | FPI |
-| 37 | 75 | $22.08 | [Chart](https://www.tradingview.com/chart/?symbol=DBC) | Invesco DB Commodity Index Tracking Fund | DBC |
-| 29 | 74 | $31.80 | [Chart](https://www.tradingview.com/chart/?symbol=BOX) | BOX, INC. | BOX |
-| 32 | 73 | $13.56 | [Chart](https://www.tradingview.com/chart/?symbol=NAVI) | Navient Corporation | NAVI |
+| 37 | 82 | $48.07 | [Chart](https://www.tradingview.com/chart/?symbol=EDU) | New Oriental Education and Technology Group, Inc. American Depositary Shares (each representing ten (10) Common Shares) | EDU |
+| 23 | 81 | $49.16 | [Chart](https://www.tradingview.com/chart/?symbol=BNDX) | Vanguard Total International Bond ETF | BNDX |
+| 27 | 80 | $76.66 | [Chart](https://www.tradingview.com/chart/?symbol=AKAM) | Akamai Technologies Inc | AKAM |
+| 25 | 79 | $45.88 | [Chart](https://www.tradingview.com/chart/?symbol=FTSL) | First Trust Senior Loan Fund ETF | FTSL |
+| 27 | 79 | $162.26 | [Chart](https://www.tradingview.com/chart/?symbol=TRGP) | Targa Resources Corp. | TRGP |
+| 32 | 76 | $42.34 | [Chart](https://www.tradingview.com/chart/?symbol=WHD) | Cactus, Inc. | WHD |
+| 33 | 76 | $86.66 | [Chart](https://www.tradingview.com/chart/?symbol=TLT) | iShares 20+ Year Treasury Bond ETF | TLT |
+| 30 | 74 | $31.65 | [Chart](https://www.tradingview.com/chart/?symbol=BOX) | BOX, INC. | BOX |
+| 31 | 74 | $11.04 | [Chart](https://www.tradingview.com/chart/?symbol=FPI) | Farmland Partners Inc. | FPI |
+| 34 | 74 | $13.24 | [Chart](https://www.tradingview.com/chart/?symbol=PDBC) | Invesco Actively Managed Exch-Traded Commodity Fd Tr Invesco Optimum Yield Diversified Commodity Strategy No K-1 ETF | PDBC |
+| 37 | 74 | $87.36 | [Chart](https://www.tradingview.com/chart/?symbol=SBUX) | Starbucks Corp | SBUX |
+| 38 | 74 | $22.08 | [Chart](https://www.tradingview.com/chart/?symbol=DBC) | Invesco DB Commodity Index Tracking Fund | DBC |
 | 35 | 73 | $10.88 | [Chart](https://www.tradingview.com/chart/?symbol=BTZ) | BlackRock Credit Allocation Income Trust | BTZ |
+| 33 | 72 | $13.56 | [Chart](https://www.tradingview.com/chart/?symbol=NAVI) | Navient Corporation | NAVI |
 | 34 | 72 | $15.89 | [Chart](https://www.tradingview.com/chart/?symbol=NCDL) | Nuveen Churchill Direct Lending Corp | NCDL |
-| 32 | 71 | $38.08 | [Chart](https://www.tradingview.com/chart/?symbol=VNO) | Vornado Realty Trust | VNO |
-| 33 | 71 | $163.26 | [Chart](https://www.tradingview.com/chart/?symbol=TRGP) | Targa Resources Corp. | TRGP |
-| 34 | 70 | $13.16 | [Chart](https://www.tradingview.com/chart/?symbol=PDBC) | Invesco Actively Managed Exch-Traded Commodity Fd Tr Invesco Optimum Yield Diversified Commodity Strategy No K-1 ETF | PDBC |
-| 33 | 69 | $134.20 | [Chart](https://www.tradingview.com/chart/?symbol=APO) | Apollo Global Management, Inc. | APO |
+| 33 | 71 | $134.16 | [Chart](https://www.tradingview.com/chart/?symbol=APO) | Apollo Global Management, Inc. | APO |
+| 36 | 71 | $12.21 | [Chart](https://www.tradingview.com/chart/?symbol=PBR) | PETROLEO BRASILEIRO S.A.-PETROBRAS ADS (REP 1 COMMON SHARE) | PBR |
+| 33 | 70 | $38.08 | [Chart](https://www.tradingview.com/chart/?symbol=VNO) | Vornado Realty Trust | VNO |
+| 35 | 67 | $103.17 | [Chart](https://www.tradingview.com/chart/?symbol=CCI) | Crown Castle Inc. | CCI |
+| 35 | 66 | $49.12 | [Chart](https://www.tradingview.com/chart/?symbol=IP) | International Paper Co. | IP |
 
 ## **Methodology**
 
